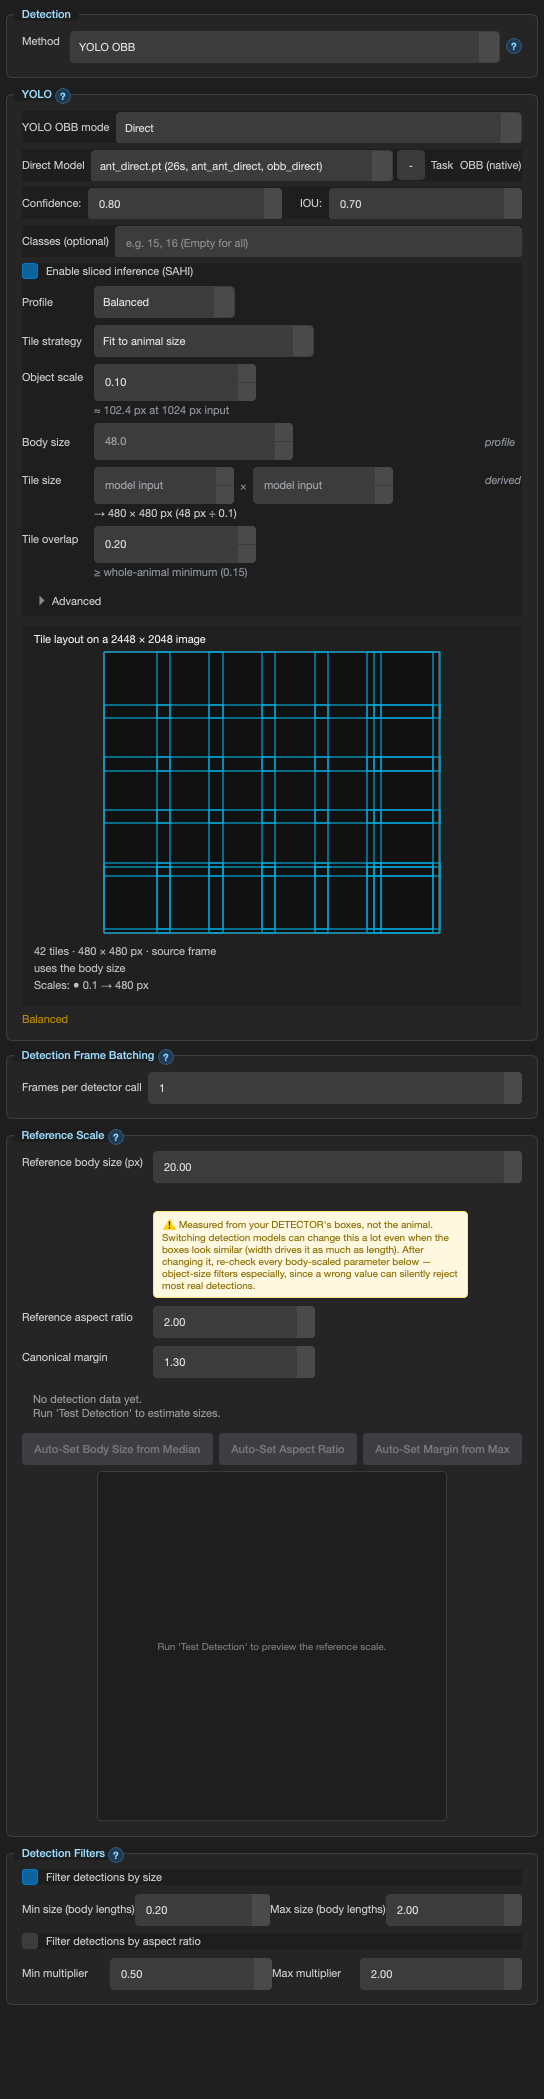
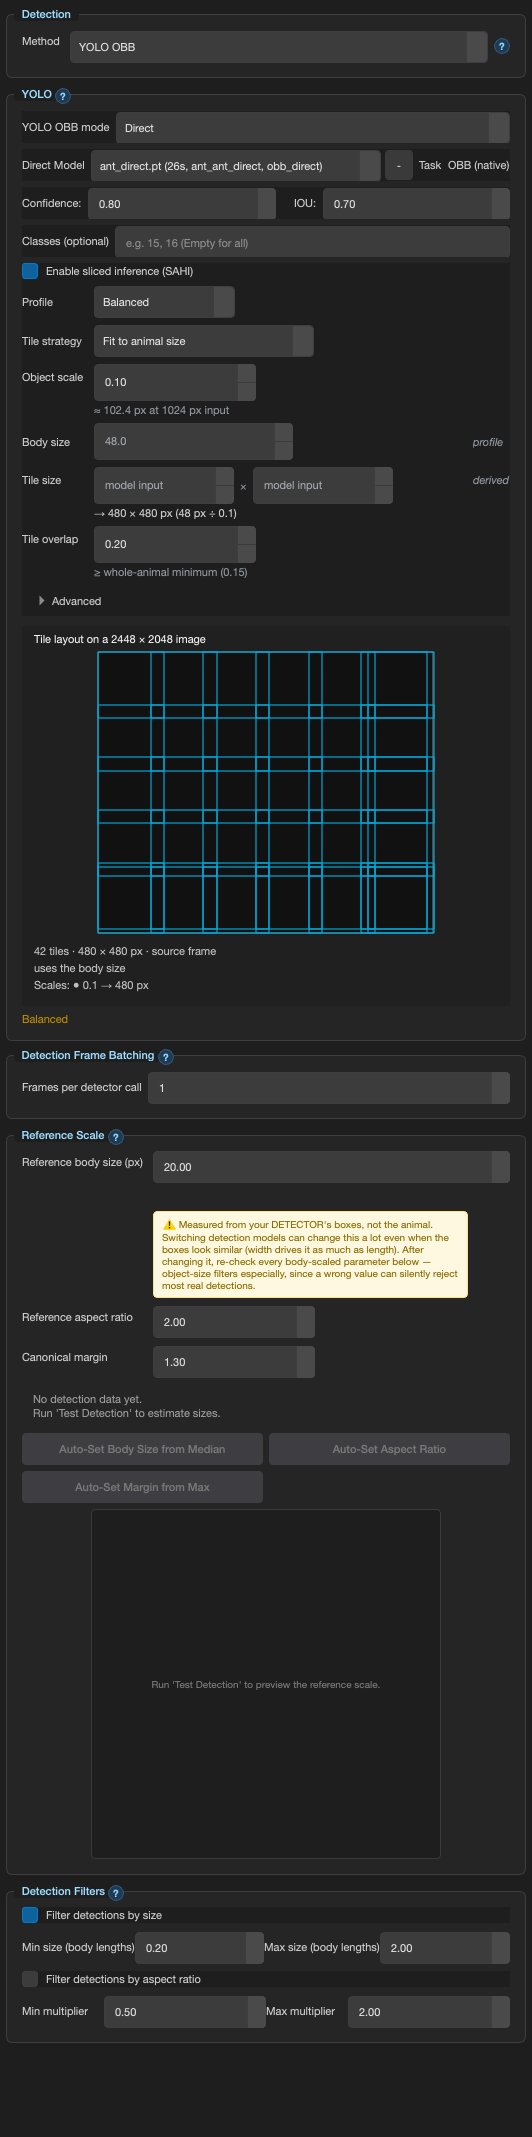
fix(trackerkit): Auto-Set buttons reflow so Find Animals never scrolls sideways
Reference Scale's three "Auto-Set ..." buttons sat in one QHBoxLayout whose
minimum (532 px) plus page margins overflowed the 532 px viewport by 12 px
at every window size. New kit-local ReflowRow (trackerkit/gui/widgets/
reflow_row.py) lays them out in as many columns as fit (3 -> 2 -> 1 per
row), with the widest single button as its minimum; labels stay full. The
buttons, their signals and enablement are unchanged; panel attribute
auto_set_buttons_row is new.

Horizontal scrollbar maximum, Find Animals, SAHI off and on (3 geometry
modes, Advanced open): 12 px -> 0 at 1100x800, 1280x800, 1440x900 and
1500x1000. Gallery TrackerKit shots regenerated (page now 532 px wide,
buttons on 2 rows).

New tests: test_find_animals_page_never_scrolls_sideways (4 sizes),
test_auto_set_buttons_reflow_instead_of_widening.

diff --git a/tests/test_trackerkit_sahi_layout.py b/tests/test_trackerkit_sahi_layout.py
@@ -112,8 +112,8 @@ def test_sahi_block_does_not_widen_the_panel(panel):
 
 def test_sahi_adds_no_sideways_scroll_at_the_default_window_size(panel):
     """The direct check: SAHI on (Advanced open) scrolls sideways no further
-    than SAHI off. (At 1500 px the Reference Scale group's three buttons
-    already overflow the viewport by a few px; that is not SAHI's.)"""
+    than SAHI off (and, since the Auto-Set buttons reflow, not at all --
+    see test_find_animals_page_never_scrolls_sideways)."""
     scroll = panel.findChild(QScrollArea)
     panel.chk_slice_enabled.setChecked(False)
     _settle(_content(panel))
@@ -179,3 +179,59 @@ def test_focus_leaves_the_profile_combo_when_sahi_is_turned_off(panel):
     panel.chk_slice_enabled.setChecked(False)  # programmatic: no click focus
     _settle(_content(panel))
     assert window.focusWidget() is panel.chk_slice_enabled
+
+
+@pytest.mark.parametrize("size", [(1100, 800), (1280, 800), (1440, 900), (1500, 1000)])
+def test_find_animals_page_never_scrolls_sideways(panel, size):
+    """The user's complaint: no horizontal scrolling on Find Animals, with
+    SAHI off or on (every geometry mode, Advanced open)."""
+    window = panel.window()
+    window.resize(*size)
+    scroll = panel.findChild(QScrollArea)
+    panel.chk_slice_enabled.setChecked(False)
+    _settle(window)
+    _settle(_content(panel))
+    maxima = {"off": scroll.horizontalScrollBar().maximum()}
+    panel.chk_slice_enabled.setChecked(True)
+    panel.slice_settings.btn_slice_advanced.setChecked(True)
+    combo = panel.combo_slice_geometry
+    for mode in ("auto_model", "auto_object", "custom"):
+        combo.setCurrentIndex(combo.findData(mode))
+        _settle(window)
+        _settle(_content(panel))
+        maxima[mode] = scroll.horizontalScrollBar().maximum()
+    assert set(maxima.values()) == {0}, maxima
+
+
+def test_auto_set_buttons_reflow_instead_of_widening(panel):
+    """Reference Scale's three Auto-Set buttons wrap onto more rows when
+    the panel is narrow, keep their full labels, and widen nothing."""
+    from PySide6.QtWidgets import QPushButton
+
+    from hydra_suite.trackerkit.gui.widgets.reflow_row import ReflowRow
+
+    row = panel.auto_set_buttons_row
+    buttons = (
+        panel.btn_auto_set_body_size,
+        panel.btn_auto_set_aspect_ratio,
+        panel.btn_auto_set_margin,
+    )
+    assert all(button.parentWidget() is row for button in buttons)
+    widest = max(button.sizeHint().width() for button in buttons)
+    assert row.minimumSizeHint().width() <= widest
+    assert buttons[0].text() == "Auto-Set Body Size from Median"
+
+    # The mechanics, on a free-standing row with the same labels.
+    free = ReflowRow([QPushButton(button.text()) for button in buttons])
+    items = free._widgets
+    for width, rows in (
+        (widest, 3),
+        (free._needed_width(2), 2),
+        (free._needed_width(3), 1),
+    ):
+        free.resize(width, 200)
+        free.show()
+        _settle(free)
+        assert len({item.geometry().top() for item in items}) == rows, width
+        assert all(item.width() <= width for item in items)
+    free.hide()

diff --git a/src/hydra_suite/trackerkit/gui/widgets/reflow_row.py b/src/hydra_suite/trackerkit/gui/widgets/reflow_row.py
@@ -1,0 +1,67 @@
+"""A row of widgets that wraps onto more rows instead of widening its host."""
+
+from __future__ import annotations
+
+from PySide6.QtCore import QSize
+from PySide6.QtWidgets import QGridLayout, QLayout, QWidget
+
+
+class ReflowRow(QWidget):
+    """Lay ``widgets`` out in as many columns as fit the current width.
+
+    All in one row when they fit side by side; otherwise fewer columns, down
+    to one per row. The minimum width is the widest single widget, so a
+    narrow side panel never scrolls sideways because of this row. Each
+    widget keeps its full text. The column count depends only on the width,
+    so re-laying out on resize is stable.
+    """
+
+    def __init__(self, widgets, parent=None, *, spacing: int = 6) -> None:
+        super().__init__(parent)
+        self._widgets = list(widgets)
+        self._grid = QGridLayout(self)
+        self._grid.setContentsMargins(0, 0, 0, 0)
+        # The minimum is ours (the widest widget), not the current column
+        # count's: let the row be narrower, then reflow on resize.
+        self._grid.setSizeConstraint(QLayout.SizeConstraint.SetNoConstraint)
+        self._grid.setHorizontalSpacing(spacing)
+        self._grid.setVerticalSpacing(spacing)
+        self._columns = 0
+        self._place(len(self._widgets))
+
+    def _needed_width(self, columns: int) -> int:
+        widths = [0] * columns
+        for index, widget in enumerate(self._widgets):
+            column = index % columns
+            widths[column] = max(widths[column], widget.sizeHint().width())
+        return sum(widths) + self._grid.horizontalSpacing() * (columns - 1)
+
+    def columns_for(self, width: int) -> int:
+        for columns in range(len(self._widgets), 1, -1):
+            if self._needed_width(columns) <= width:
+                return columns
+        return 1
+
+    def _place(self, columns: int) -> None:
+        if columns == self._columns:
+            return
+        self._columns = columns
+        for widget in self._widgets:
+            self._grid.removeWidget(widget)
+        for column in range(len(self._widgets)):
+            self._grid.setColumnStretch(column, 1 if column < columns else 0)
+        for index, widget in enumerate(self._widgets):
+            self._grid.addWidget(widget, index // columns, index % columns)
+        self.updateGeometry()
+
+    def minimumSizeHint(self) -> QSize:  # noqa: N802 - Qt override
+        hint = super().minimumSizeHint()
+        return QSize(self._needed_width(1), hint.height())
+
+    def sizeHint(self) -> QSize:  # noqa: N802 - Qt override
+        hint = super().sizeHint()
+        return QSize(self._needed_width(len(self._widgets)), hint.height())
+
+    def resizeEvent(self, event) -> None:  # noqa: N802 - Qt override
+        super().resizeEvent(event)
+        self._place(self.columns_for(self.width()))

diff --git a/src/hydra_suite/trackerkit/gui/panels/detection_panel.py b/src/hydra_suite/trackerkit/gui/panels/detection_panel.py
@@ -1348,7 +1348,6 @@ class DetectionPanel(QWidget):
         self.label_detection_stats.setWordWrap(True)
         vl_ref_scale.addWidget(self.label_detection_stats)
 
-        btn_layout = QHBoxLayout()
         self.btn_auto_set_body_size = QPushButton("Auto-Set Body Size from Median")
         self.btn_auto_set_body_size.clicked.connect(
             self._main_window._auto_set_body_size_from_detection
@@ -1357,7 +1356,6 @@ class DetectionPanel(QWidget):
         self.btn_auto_set_body_size.setToolTip(
             "Automatically set reference body size to the median detected diameter"
         )
-        btn_layout.addWidget(self.btn_auto_set_body_size)
 
         self.btn_auto_set_aspect_ratio = QPushButton("Auto-Set Aspect Ratio")
         self.btn_auto_set_aspect_ratio.clicked.connect(
@@ -1367,7 +1365,6 @@ class DetectionPanel(QWidget):
         self.btn_auto_set_aspect_ratio.setToolTip(
             "Set reference aspect ratio from the median detected major/minor ratio"
         )
-        btn_layout.addWidget(self.btn_auto_set_aspect_ratio)
 
         self.btn_auto_set_margin = QPushButton("Auto-Set Margin from Max")
         self.btn_auto_set_margin.clicked.connect(
@@ -1378,8 +1375,18 @@ class DetectionPanel(QWidget):
             "Set canonical margin so the largest detected animal's major axis\n"
             "fits inside the canonical crop canvas"
         )
-        btn_layout.addWidget(self.btn_auto_set_margin)
-        vl_ref_scale.addLayout(btn_layout)
+        # The three buttons wrap onto more rows in a narrow panel rather
+        # than widening the page (no sideways scrolling).
+        from hydra_suite.trackerkit.gui.widgets.reflow_row import ReflowRow
+
+        self.auto_set_buttons_row = ReflowRow(
+            (
+                self.btn_auto_set_body_size,
+                self.btn_auto_set_aspect_ratio,
+                self.btn_auto_set_margin,
+            )
+        )
+        vl_ref_scale.addWidget(self.auto_set_buttons_row)
 
         preview_row = QHBoxLayout()
         preview_row.addStretch(1)
